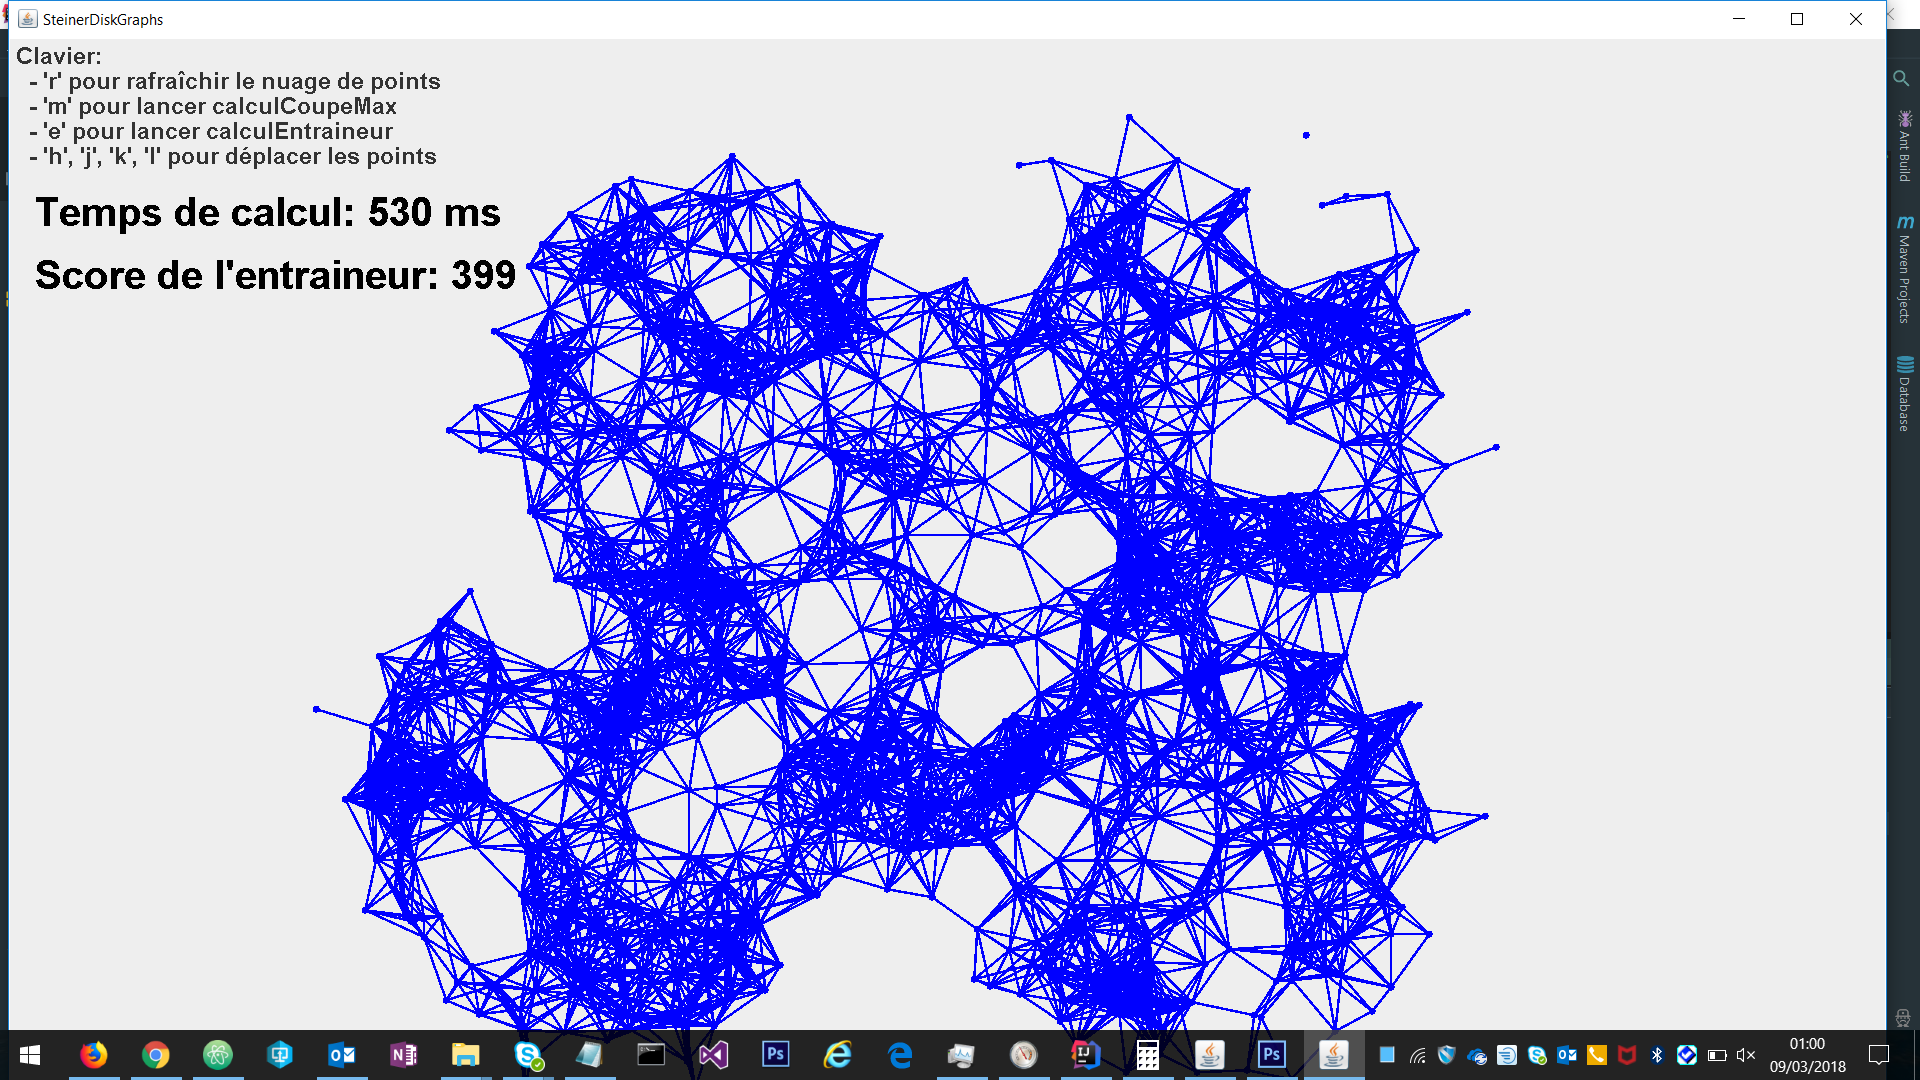
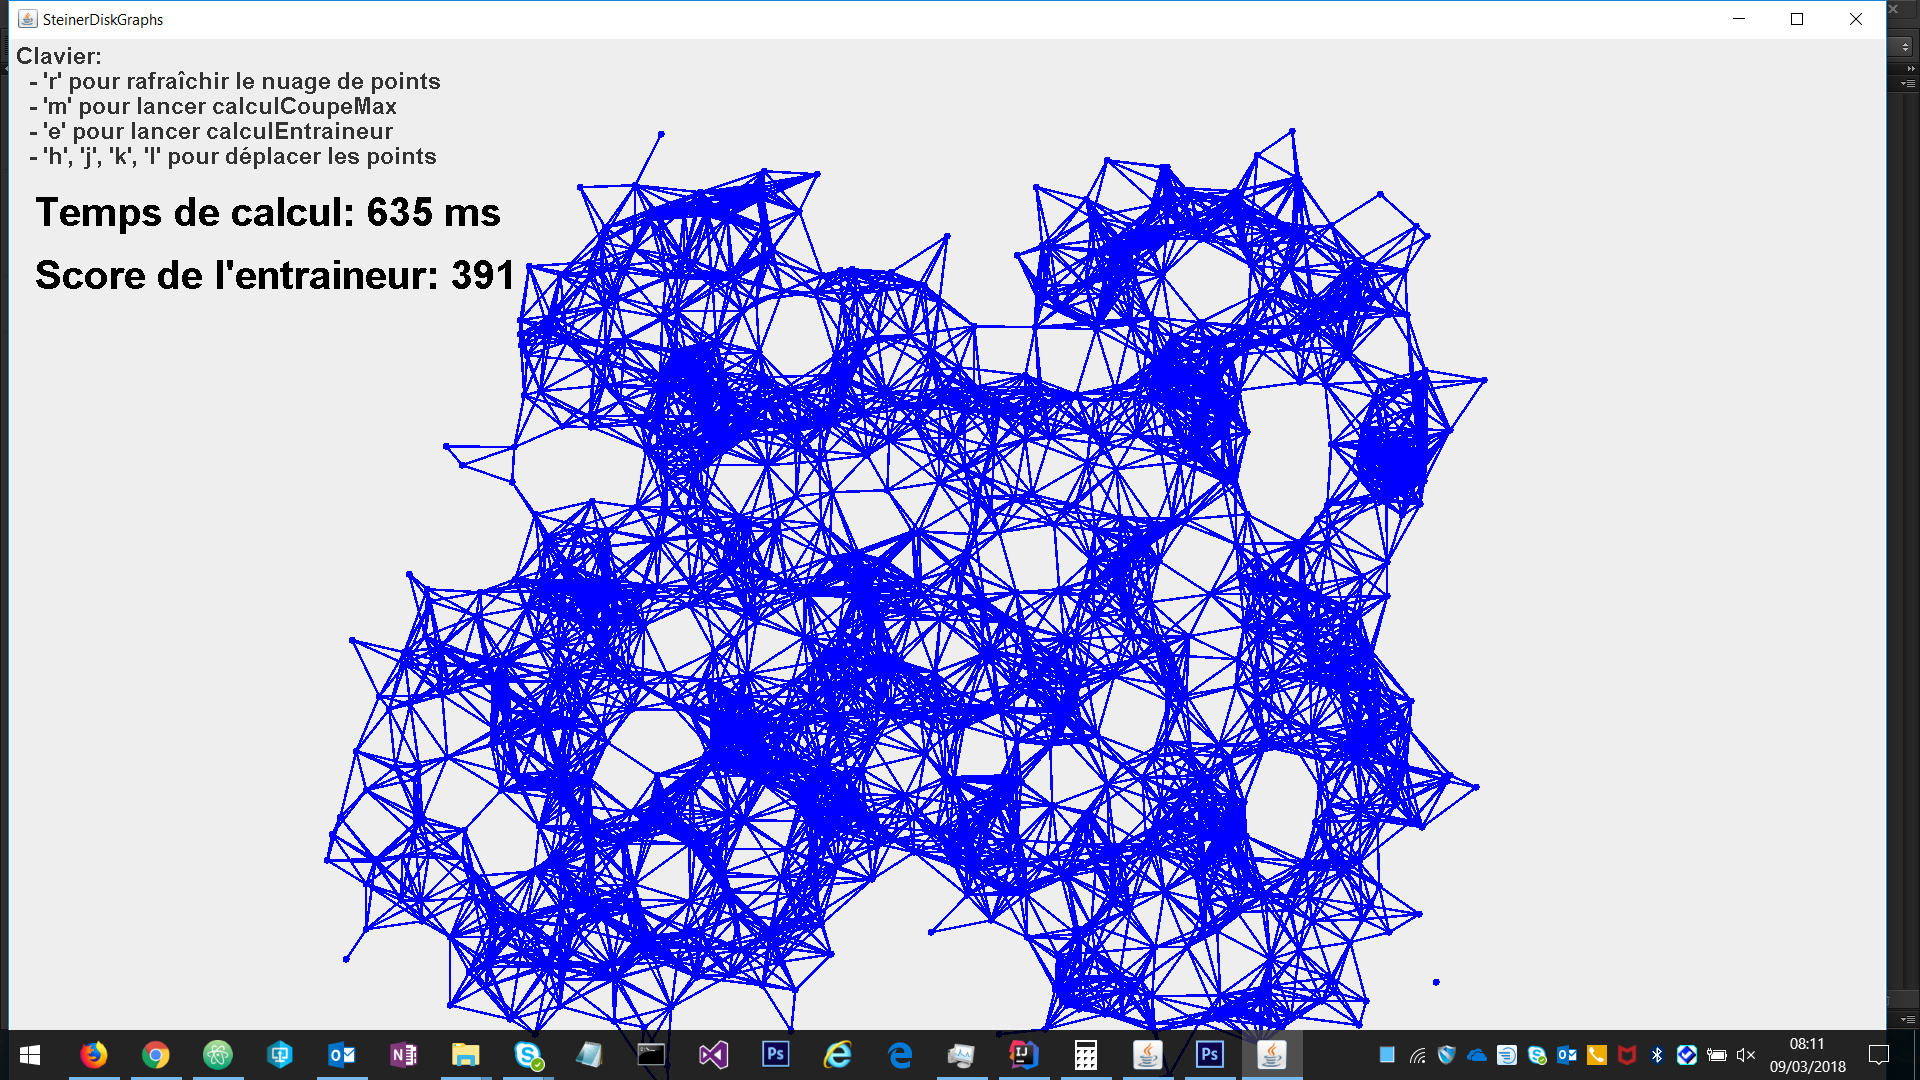
:zap: :zap: moar scoar

diff --git a/src/algorithms/DefaultTeam.java b/src/algorithms/DefaultTeam.java
@@ -13,7 +13,7 @@ public class DefaultTeam {
 
     private int edgeThreshold=55;
     private int eTc=edgeThreshold*edgeThreshold;
-    private int numero = 4;
+    private int numero = 2;
     private boolean onlyres = true;
     private ArrayList<Point> points=readFromFile(numero, "input");
     private ArrayList<Point> filescore=readFromFile(numero, "score");
